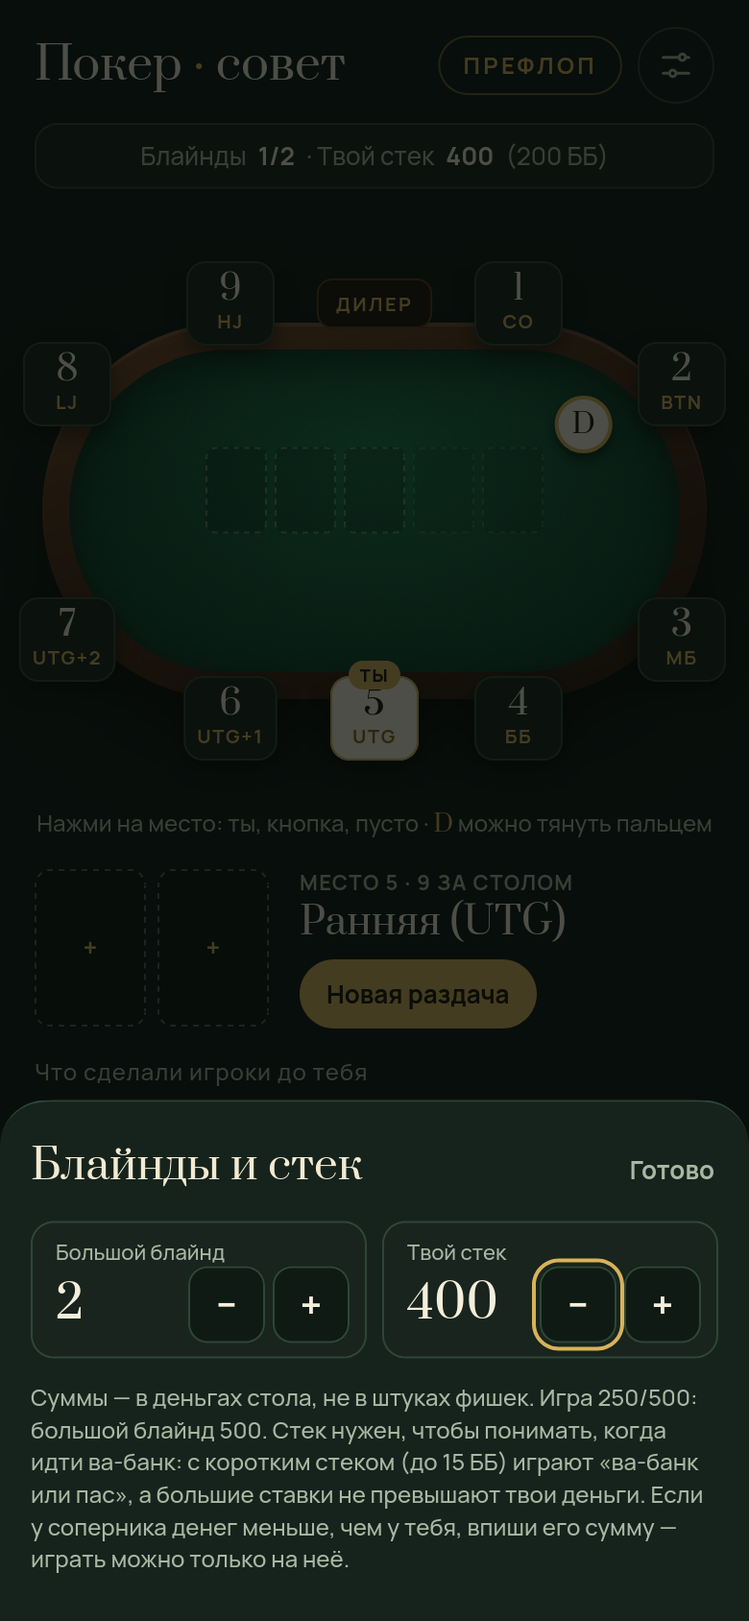
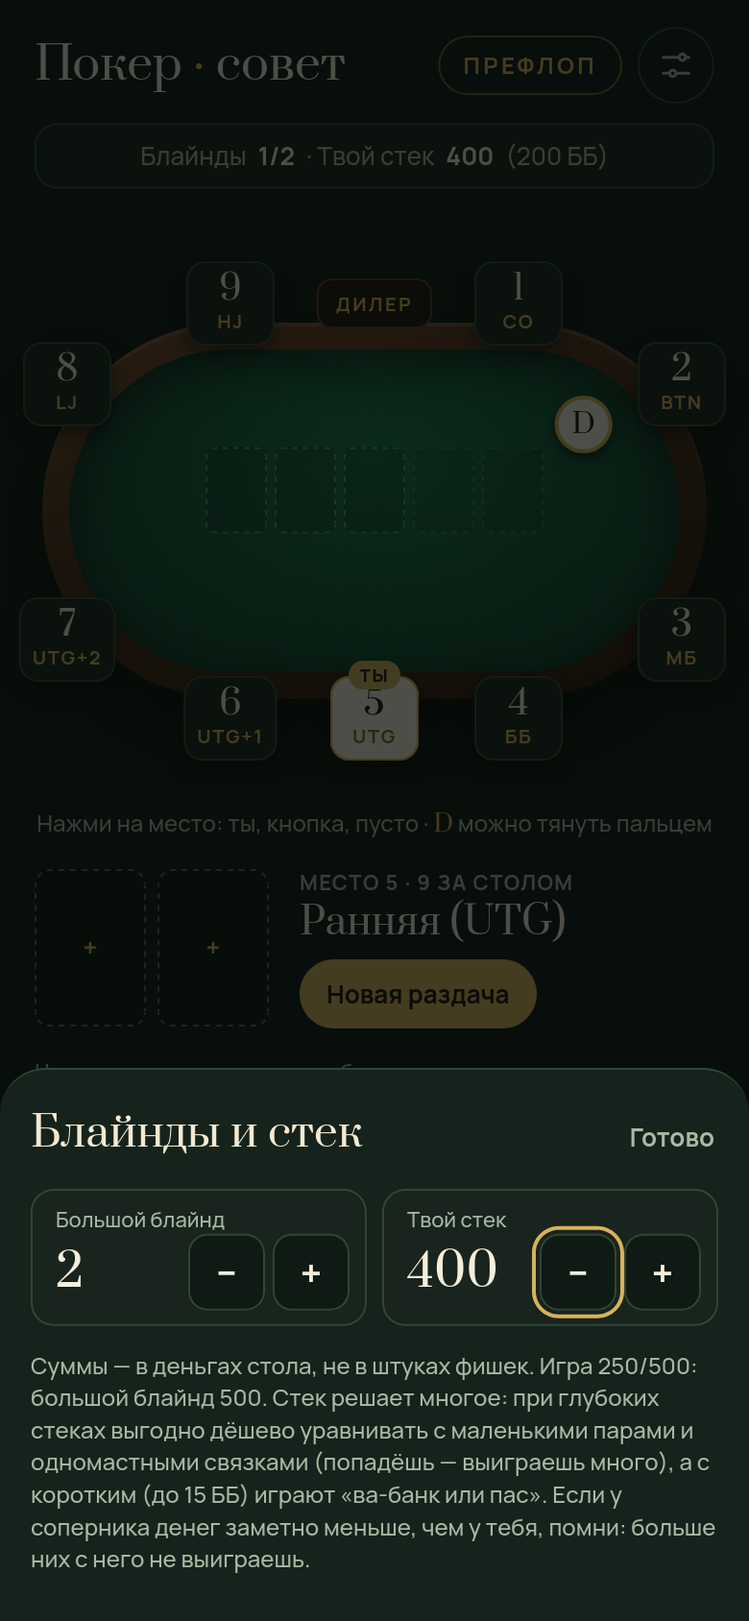
Стек решает: ловля сета, руки на попадание, защита блайндов, SPR и неявные шансы; 70 раздач в проверке

Changed region(s): [[0.0308, 0.6777, 0.9538, 0.9858], [0.8308, 0.6777, 0.9538, 0.7393]]

diff --git a/src/preflop.js b/src/preflop.js
@@ -27,6 +27,13 @@ const CALL_SMALL = '22-JJ, ATs-AQs, KJs+, QJs, JTs, T9s, 98s, AQo, KQo';
 const CALL_BB_EXTRA = 'A2s+, K9s+, Q9s+, J9s+, T8s+, 97s+, 87s, 76s, 65s, ATo+, KJo+, QJo';
 const CALL_BIG = '77-JJ, AQs, KQs, AQo';
 
+// Спекулятивные руки: дешёвый колл ради большого банка, когда попадёшь (нужны глубокие стеки).
+const SPECULATIVE = 'A2s-A9s, KTs, QTs, J9s, T9s, 98s, 87s, 76s, 65s, 54s, T8s, 97s, 86s, 75s';
+// Сколько эффективных стеков (в разах от цены колла) нужно, чтобы ловить сет / доезжать.
+const SET_MINING_IN_POSITION = 18; // 15–20 по книгам, в позиции
+const SET_MINING_OUT_OF_POSITION = 25; // без позиции — нужно больше
+const SPECULATIVE_IMPLIED = 30;
+
 // Против повторного повышения (3-бета).
 const FOURBET = 'KK+, AKs';
 const CALL_3BET = 'QQ, JJ, AKo, AQs';
@@ -44,7 +51,8 @@ const chips = (amount) => Math.round(amount * 10) / 10;
  * action — что было до тебя: 'none' (все сбросили или ты первый), 'limp',
  *   'raise' (одно повышение), '3bet' (повышение на повышение);
  * limpers — сколько игроков уравняли блайнд; raiseTo — до скольки повысили;
- * bigBlind — размер большого блайнда (все суммы в тех же деньгах).
+ * bigBlind — размер большого блайнда (все суммы в тех же деньгах);
+ * stack — эффективный стек: меньший из твоего и соперника (больше него не выиграешь и не проиграешь).
  * Возвращает { action, amount, text, reason, hand }.
  */
 export function preflopAdvice({ hero, position, action = 'none', limpers = 0, raiseTo = 0, bigBlind = 1, stack = Infinity }) {
@@ -97,6 +105,12 @@ export function preflopAdvice({ hero, position, action = 'none', limpers = 0, ra
     return result('fold', 0, `${cls} слишком слабая для этой позиции: после тебя ещё ${position.behind} игроков.`);
   }
 
+  // Сколько реально доплатить (блайнд уже на столе) и во сколько раз стек больше этой цены.
+  const posted = isBB ? bb : position.key === 'SB' ? bb / 2 : 0;
+  const implied = (cost) => (cost > 0 ? stack / cost : Infinity);
+  const isPair = cls.length === 2;
+  const inPosition = position.group !== 'blinds';
+
   if (action === 'limp') {
     const raiseSize = (3 + limpers) * bb;
     // Повышаем, если рука входит в диапазон с запасом (на позицию строже).
@@ -104,13 +118,18 @@ export function preflopAdvice({ hero, position, action = 'none', limpers = 0, ra
       return result('raise', raiseSize, `${cls} — сильная рука, повышай и забирай инициативу у лимперов.`);
     }
     if (isBB) return result('check', 0, 'Можно посмотреть флоп бесплатно.');
-    if (inRange(cls, LIMP_CALL) && inRange(cls, openRange(position.behind))) {
-      return result('call', bb, `${cls} хорошо играет в многосторонних банках: можно доехать до сета или дро.`);
+    // Малый блайнд доплачивает всего полблайнда при уже большом банке — входим шире.
+    if (position.key === 'SB' && topClasses(0.55).has(cls)) {
+      return result('call', bb, `Доплатить всего полблайнда, а в банке уже ${limpers + 2} блайнда — с ${cls} выгодно посмотреть флоп.`);
+    }
+    if (inRange(cls, LIMP_CALL) && inRange(cls, openRange(position.behind)) && implied(bb) >= 20) {
+      return result('call', bb, `${cls} хорошо играет в многосторонних банках: дёшево, а попадёшь в сет или дро — выиграешь много.`);
     }
     return result('fold', 0, `${cls} не стоит денег даже против лимперов.`);
   }
 
   const raiseBB = raiseTo / bb;
+  const cost = raiseTo - posted;
 
   if (action === 'raise') {
     const threeBetRange = late || position.group === 'blinds' ? THREEBET_LATE : THREEBET;
@@ -118,8 +137,27 @@ export function preflopAdvice({ hero, position, action = 'none', limpers = 0, ra
     if (inRange(cls, threeBetRange)) {
       return result('raise', threeBetSize, `${cls} — одна из лучших рук, повышай снова (3-бет).`);
     }
+    // Маленькие и средние пары: ловим сет, если стеки глубокие.
+    if (isPair && inRange(cls, '22-JJ')) {
+      const need = inPosition ? SET_MINING_IN_POSITION : SET_MINING_OUT_OF_POSITION;
+      if (implied(cost) >= need) {
+        return result('call', raiseTo, `Ловим сет: он приходит раз из 8,5, а стек в ${Math.floor(implied(cost))} раз больше цены колла — попадёшь, выиграешь много.`);
+      }
+      if (inRange(cls, '77-JJ') && raiseBB <= 4.5) {
+        return result('call', raiseTo, `${cls} достаточно сильна, чтобы уравнять, но стек маловат, чтобы играть «на сет».`);
+      }
+      return result('fold', 0, `${cls} против повышения играет «на сет», а для этого стек должен быть хотя бы в ${need} раз больше цены колла (сейчас в ${Math.floor(implied(cost))}).`);
+    }
+    // Одномастные связки и тузы: дёшево, в позиции или на ББ, при глубоких стеках.
+    if (inRange(cls, SPECULATIVE) && raiseBB <= 4 && (late || isBB) && implied(cost) >= SPECULATIVE_IMPLIED) {
+      return result('call', raiseTo, `${cls} — рука «на попадание»: колл дешёвый, стеки глубокие, а флеш или стрит выиграют большой банк.`);
+    }
+    // ББ против минимального повышения: цена очень хорошая, защищаем примерно половину рук.
+    if (isBB && raiseBB <= 2.5 && topClasses(0.5).has(cls)) {
+      return result('call', raiseTo, `Повысили минимально: доплатить ${chips(cost)}, а банк уже больше — с ${cls} защищай большой блайнд.`);
+    }
     const callRange = raiseBB > 4.5 ? CALL_BIG : CALL_SMALL;
-    if (inRange(cls, callRange) || (isBB && raiseBB <= 3.5 && inRange(cls, CALL_BB_EXTRA))) {
+    if ((inRange(cls, callRange) && !isPair) || (isBB && raiseBB <= 3.5 && inRange(cls, CALL_BB_EXTRA))) {
       return result('call', raiseTo, isBB
         ? `${cls}: часть ставки уже в банке, цена колла хорошая.`
         : `${cls} неплохо играет против повышения, но для 3-бета слабовата.`);
@@ -133,6 +171,9 @@ export function preflopAdvice({ hero, position, action = 'none', limpers = 0, ra
     }
     if (inRange(cls, CALL_3BET)) {
       return result('call', raiseTo, `${cls} достаточно сильна, чтобы уравнять 3-бет, но не для 4-бета.`);
+    }
+    if (isPair && inRange(cls, '77-TT') && implied(cost) >= 20) {
+      return result('call', raiseTo, `Против 3-бета ${cls} — только «на сет»: стек в ${Math.floor(implied(cost))} раз больше цены, это допустимо.`);
     }
     return result('fold', 0, `Против повторного повышения ${cls} лучше сбросить.`);
   }

diff --git a/src/postflop.js b/src/postflop.js
@@ -120,6 +120,18 @@ export function postflopAdvice({
   const percent = percentText(equity);
   const river = board.length === 5;
 
+  // Сила руки относительно стола: пара, которая есть у всех на столе, — не наша заслуга.
+  const mine = categoryOf(evaluate([...hero, ...board]));
+  const boardOnly = categoryOf(evaluate(board));
+  const madeHand = mine >= CATEGORY.PAIR && !handName.includes('на столе');
+  const topPairPlus = madeHand && (/Старшая пара|Оверпара/.test(handName) || mine - boardOnly >= 1 && mine >= CATEGORY.TWO_PAIR);
+  const bigHand = mine - boardOnly >= 2 || mine >= CATEGORY.STRAIGHT && !handName.includes('на столе');
+
+  // SPR — сколько банков помещается в стеке. Маленький — можно ва-банк со старшей парой,
+  // большой — одной парой весь стек не отдают.
+  const spr = stack / (pot + bet);
+  const sprText = Number.isFinite(spr) ? String(Math.round(spr * 10) / 10).replace('.', ',') : '';
+
   // Нужный шанс для ставки на «вэлью»: против многих соперников ниже.
   const valueNeed = Math.max(0.35, 0.7 - 0.1 * opponents);
   const strongDraw = draws.outs >= 8 && !river;
@@ -132,12 +144,15 @@ export function postflopAdvice({
       action: act,
       amount: amount ? chips(amount) : 0,
       text: ACTION_TEXT[act] + (amount ? `${act === 'raise' ? ' до' : ''} ${chips(amount)}` : ''),
-      reason, equity, randomEquity, handName, draws,
+      reason, equity, randomEquity, handName, draws, spr,
     };
   };
 
   if (!bet) {
     if (equity >= valueNeed) {
+      if (spr < 1.5 && topPairPlus) {
+        return result('allin', stack, `Шанс ${percent} %, а в стеке меньше полутора банков (SPR ${sprText}) — ставь всё сразу.`);
+      }
       return result('bet', pot * 0.66, `Шанс ${percent} % — ты, скорее всего, впереди: ставь 2/3 банка, пусть платят худшие руки.`);
     }
     if (strongDraw && opponents <= 2) {
@@ -153,13 +168,23 @@ export function postflopAdvice({
   const vsValue = calcEquity({ hero, board, opponents, ranges: value ? [...value, ...ranges.slice(1)] : ranges,
     iterations: Math.round(iterations / 2), random }).equity;
   // На ривере повышение уравняют только руки получше — нужен запас побольше.
-  if (vsValue >= Math.max(valueNeed, river ? 0.7 : 0.55) && price < stack) {
+  // При глубоких стеках (SPR > 6) одной парой банк не раздуваем.
+  const deepOnePair = spr > 6 && !bigHand;
+  if (vsValue >= Math.max(valueNeed, river ? 0.7 : 0.55) && price < stack && !deepOnePair) {
     return result('raise', bet * 3, `Ты впереди даже против рук, которыми так ставят без блефа (${percentText(vsValue)} %), — повышай втрое.`);
   }
-  // На флопе впереди ещё ставки: дро без готовой пары реализует шанс не полностью
-  // (на тёрне снова придётся платить). При ва-банке ставок больше не будет — без поправки.
-  const madeHand = categoryOf(evaluate([...hero, ...board])) >= CATEGORY.PAIR && !describeHand(hero, board).includes('на столе');
-  const realized = board.length === 3 && !madeHand && price < stack ? equity * 0.87 : equity;
+  // Маленький SPR и старшая пара или сильнее: сдаваться поздно — ва-банк.
+  if (spr < 3 && topPairPlus && equity >= potOdds) {
+    return result('allin', stack, `Стек меньше трёх банков (SPR ${sprText}), а у тебя ${handName.toLowerCase()} — с такой рукой при маленьком стеке идут ва-банк.`);
+  }
+
+  // Дро. На флопе впереди ещё ставки — шанс реализуется не полностью (на тёрне снова платить).
+  // Зато при глубоких стеках, когда доедешь, выиграешь ещё (неявные шансы) — если ставка не больше банка.
+  const drawing = !madeHand && !river && price < stack;
+  const futureWin = drawing && spr >= 4 && bet <= pot ? 0.3 * Math.min(stack - price, pot + bet + price) : 0;
+  const realized = drawing && board.length === 3 ? equity * 0.87 : equity;
+  const drawOdds = price / (pot + bet + price + futureWin);
+
   // Решение зависит от того, как блефует соперник? Скажем об этом прямо.
   const flip = (other) => {
     if (!compareStyles || style === other) return null;
@@ -167,10 +192,13 @@ export function postflopAdvice({
       iterations: Math.round(iterations / 2), random, compareStyles: false });
     return alt.action;
   };
-  if (realized >= potOdds) {
+  if (realized >= drawOdds) {
     const rare = flip('rare');
     const note = rare === 'fold' ? ' Но если он почти не блефует — пас.' : '';
-    return result('call', price, `Шанс ${percent} %, а колл требует ${need} % — уравнивать выгодно.${note}`);
+    const implied = futureWin && realized < potOdds
+      ? ` Напрямую колл чуть дороже шанса, но стеки глубокие: доедешь — выиграешь ещё.` : '';
+    const deep = deepOnePair && vsValue >= 0.55 ? ' Стеки глубокие — одной парой банк не раздувай, просто уравнивай.' : '';
+    return result('call', price, `Шанс ${percent} %, а колл требует ${need} % — уравнивать выгодно.${implied}${deep}${note}`);
   }
   if (realized < equity && equity >= potOdds) {
     return result('fold', 0, `Шанс ${percent} %, но это до ривера, а на тёрне снова придётся платить: дро стоит около ${percentText(realized)} %, колл требует ${need} %.`);

diff --git a/app.js b/app.js
@@ -444,9 +444,9 @@ function openSettings() {
       ${stepper('stack', 'Твой стек', state.bb * 10)}
     </div>
     <p class="note">Суммы — в деньгах стола, не в штуках фишек. Игра 250/500: большой блайнд 500.
-      Стек нужен, чтобы понимать, когда идти ва-банк: с коротким стеком (до 15 ББ) играют «ва-банк или пас»,
-      а большие ставки не превышают твои деньги. Если у соперника денег меньше, чем у тебя, впиши его сумму —
-      играть можно только на неё.</p>`);
+      Стек решает многое: при глубоких стеках выгодно дёшево уравнивать с маленькими парами и одномастными
+      связками (попадёшь — выиграешь много), а с коротким (до 15 ББ) играют «ва-банк или пас».
+      Если у соперника денег заметно меньше, чем у тебя, помни: больше них с него не выиграешь.</p>`);
   sheet.querySelector('[data-act="close"]').onclick = closeSheet;
   bindSteppers(sheet);
 }

diff --git a/tests/advice.test.js b/tests/advice.test.js
@@ -37,8 +37,10 @@ test('позиции за столом', () => {
   assert.throws(() => positionInfo(11, 0), /от 2 до 10/);
 });
 
+// По умолчанию стек 100 больших блайндов — обычная игра.
 const pre = (hand, players, offset, extra = {}) =>
-  preflopAdvice({ hero: cards(hand), position: positionInfo(players, offset), ...extra });
+  preflopAdvice({ hero: cards(hand), position: positionInfo(players, offset),
+    stack: 100 * (extra.bigBlind ?? 1), ...extra });
 
 test('префлоп: открытие зависит от позиции', () => {
   assert.equal(pre('As Ah', 9, 3).action, 'raise');

diff --git a/docs/proverka-sovetov.md b/docs/proverka-sovetov.md
@@ -28,33 +28,58 @@
 | 20 | 22, стек 14 ББ, ранняя | все сбросили | **Пас** | 48 % против одного соперника | пас | ✅ |
 | 21 | A2 разных, стек 6 ББ, малый блайнд | все сбросили | **Ва-банк до 12** | 49 % против одного соперника | ва-банк | ✅ |
 | 22 | AQ одной масти, стек 12 ББ, против рейза | рейз до 6 | **Ва-банк до 24** | 60 % против руки повысившего | ва-банк | ✅ |
+| 23 | 55 против рейза на баттоне, 100 ББ (ловим сет) | рейз до 6 | **Колл до 6** | 46 % против руки повысившего | колл | ✅ |
+| 24 | 55 против рейза на баттоне, 40 ББ | рейз до 6 | **Пас** | 46 % против руки повысившего | пас | ✅ |
+| 25 | 55 на ББ против рейза, 100 ББ | рейз до 6 | **Колл до 6** | 47 % против руки повысившего | колл | ✅ |
+| 26 | 33 против рейза в 5 ББ, 100 ББ | рейз до 10 | **Колл до 10** | 44 % против руки повысившего | колл | ✅ |
+| 27 | 33 против рейза в 5 ББ, 60 ББ | рейз до 10 | **Пас** | 45 % против руки повысившего | пас | ✅ |
+| 28 | 76 одной масти на баттоне против рейза, 100 ББ | рейз до 6 | **Колл до 6** | 37 % против руки повысившего | колл | ✅ |
+| 29 | 76 одной масти на баттоне против рейза, 40 ББ | рейз до 6 | **Пас** | 37 % против руки повысившего | пас | ✅ |
+| 30 | 76 одной масти из ранней против рейза, 100 ББ | рейз до 6 | **Пас** | 37 % против руки повысившего | пас | ✅ |
+| 31 | A4 одной масти на ББ против рейза, 150 ББ | рейз до 6 | **Колл до 6** | 45 % против руки повысившего | колл | ✅ |
+| 32 | K7 разных на ББ против минимального рейза | рейз до 4 | **Колл до 4** | 35 % против руки повысившего | колл | ✅ |
+| 33 | 9-2 разных на ББ против минимального рейза | рейз до 4 | **Пас** | 28 % против руки повысившего | пас | ✅ |
+| 34 | J8 разных на МБ, перед тобой 2 лимпа | лимп | **Колл до 2** | 26 % против 2 соперников | колл | ✅ |
+| 35 | 7-2 разных на МБ, перед тобой 2 лимпа | лимп | **Пас** | 19 % против 2 соперников | пас | ✅ |
+| 36 | 88 против 3-бета, 300 ББ (на сет) | 3-бет до 18 | **Колл до 18** | 42 % против руки повысившего | колл | ✅ |
+| 37 | 88 против 3-бета, 100 ББ | 3-бет до 18 | **Пас** | 42 % против руки повысившего | пас | ✅ |
+| 38 | Твой пример: стек 200 ББ, ББ, доплатить ещё блайнд, T7 одной масти | рейз до 4 | **Колл до 4** | 35 % против руки повысившего | колл | ✅ |
+| 39 | Твой пример: стек 200 ББ, ББ, доплатить ещё блайнд, 7-2 разных | рейз до 4 | **Пас** | 27 % против руки повысившего | пас | ✅ |
 
 ## После флопа (банк — в центре, ставка — отдельно)
 
 | # | Раздача | Карты · стол | Банк / ставка | Совет | Шанс (против любых) | Ждём | |
 |---|---|---|---|---|---|---|---|
-| 23 | Старшая пара с лучшим кикером, тебе чек | As Kd · Ah 7c 2d | 13 / — | **Ставка 8.6** | 88 % (89 %) | ставка | ✅ |
-| 24 | Старшая пара, ставка в полбанка | As Kd · Ah 7c 2d | 13 / 6 | **Рейз до 18** | 83 % (89 %) | колл или рейз | ✅ |
-| 25 | Ничего не попало, тебе чек | 7s 6s · Ah Kc 2d | 13 / — | **Чек** | 6 % (21 %) | чек | ✅ |
-| 26 | Ничего не попало, ставка | 7s 6s · Ah Kc 2d | 13 / 9 | **Пас** | 10 % (22 %) | пас | ✅ |
-| 27 | Сет семёрок, ставка | 7s 7d · Kh 7c 2h | 13 / 9 | **Рейз до 27** | 91 % (95 %) | рейз | ✅ |
-| 28 | Флеш-дро, ставка в банк | Js Ts · As 7s 2d | 13 / 13 | **Колл 13** (если он почти не блефует — пас) | 41 % (62 %) | колл | ✅ |
-| 29 | Флеш-дро, ставка в три банка | Js Ts · As 7s 2d | 13 / 39 | **Пас** | 40 % (63 %) | пас | ✅ |
-| 30 | Двустороннее стрит-дро, ставка в полбанка | 9s 8d · 7c 6h Kd | 13 / 6 | **Колл 6** | 38 % (50 %) | колл | ✅ |
-| 31 | Гатшот, ставка в банк | 9s 8d · 6c 5h Kd | 13 / 13 | **Пас** | 20 % (39 %) | пас | ✅ |
-| 32 | Туз со слабым кикером, ставка в банк | Ad 3c · As Jh 8d | 13 / 13 | **Колл 13** | 54 % (84 %) | колл или пас | ✅ |
-| 33 | Оверпара QQ, тебе чек | Qs Qd · 8h 5c 2d | 13 / — | **Ставка 8.6** | 79 % (80 %) | ставка | ✅ |
-| 34 | QQ на столе A-K, ставка | Qs Qd · Ah Kc 4d | 13 / 9 | **Колл 9** | 39 % (72 %) | пас или колл | ✅ |
-| 35 | Ривер: натсовый флеш, ставка | Ah 5h · Kh 9h 2c 7h Js | 40 / 20 | **Рейз до 60** | 100 % (100 %) | рейз или ва-банк | ✅ |
-| 36 | Ривер: младшая пара, огромная ставка | 3s 3d · Kh 9c 7d 5s 2h | 40 / 80 | **Пас** | 15 % (47 %) | пас | ✅ |
-| 37 | Ривер: старшая пара, маленькая ставка | Kd Qc · Kh 9c 7d 5s 2h | 40 / 10 | **Колл 10** | 75 % (88 %) | колл или рейз | ✅ |
-| 38 | Ривер: AA на K-K-8-4-2, ставка в 4 банка (твоя) | Ac Ah · 4d Kc Kd 8s 2c | 250 / 1000 | **Пас** | 12 % (81 %) | пас | ✅ |
-| 39 | Ривер: AA на K-K-8-4-2, ставка в банк | Ac Ah · 4d Kc Kd 8s 2c | 1000 / 1000 | **Колл 1000** | 55 % (91 %) | колл | ✅ |
-| 40 | Ривер: AA на K-K-8-4-2, ставка в полбанка | Ac Ah · 4d Kc Kd 8s 2c | 1000 / 500 | **Колл 500** | 68 % (90 %) | колл | ✅ |
-| 41 | Ривер: QQ на A-8-8-4-2, один (твоя) — зависит от блефа | Qh Qd · 4d Ad 8c 8s 2c | 750 / 500 | **Пас** (если он часто блефует — колл) | 20 % (77 %) | пас или колл | ✅ |
-| 42 | Тёрн: две пары, ставка, трое в игре | Ks 9s · Kh 9c 4d 2s | 30 / 20 | **Рейз до 60** | 85 % (89 %) | рейз или колл | ✅ |
-| 43 | Старшая пара, хороший кикер, трое, чек | As Qd · Qh 8c 3d | 12 / — | **Ставка 7.9** | 62 % (66 %) | ставка | ✅ |
-| 44 | Короткий стек: старшая пара, ставка | As Kd · Kh 8c 3d | 40 / 20 | **Ва-банк 30** | 83 % (90 %) | ва-банк | ✅ |
-| 45 | Готовый стрит, тебе чек | Jd Ts · 9h 8c 7d | 13 / — | **Ставка 8.6** | 93 % (95 %) | ставка | ✅ |
+| 40 | Старшая пара с лучшим кикером, тебе чек | As Kd · Ah 7c 2d | 13 / — | **Ставка 8.6** | 89 % (89 %) | ставка | ✅ |
+| 41 | Старшая пара, ставка в полбанка | As Kd · Ah 7c 2d | 13 / 6 | **Колл 6** | 83 % (89 %) | колл или рейз | ✅ |
+| 42 | Ничего не попало, тебе чек | 7s 6s · Ah Kc 2d | 13 / — | **Чек** | 6 % (21 %) | чек | ✅ |
+| 43 | Ничего не попало, ставка | 7s 6s · Ah Kc 2d | 13 / 9 | **Пас** | 10 % (21 %) | пас | ✅ |
+| 44 | Сет семёрок, ставка | 7s 7d · Kh 7c 2h | 13 / 9 | **Рейз до 27** | 90 % (95 %) | рейз | ✅ |
+| 45 | Флеш-дро, ставка в банк | Js Ts · As 7s 2d | 13 / 13 | **Колл 13** | 42 % (61 %) | колл | ✅ |
+| 46 | Флеш-дро, ставка в три банка | Js Ts · As 7s 2d | 13 / 39 | **Пас** | 39 % (62 %) | пас | ✅ |
+| 47 | Двустороннее стрит-дро, ставка в полбанка | 9s 8d · 7c 6h Kd | 13 / 6 | **Колл 6** | 37 % (51 %) | колл | ✅ |
+| 48 | Гатшот, ставка в банк | 9s 8d · 6c 5h Kd | 13 / 13 | **Пас** | 21 % (39 %) | пас | ✅ |
+| 49 | Туз со слабым кикером, ставка в банк | Ad 3c · As Jh 8d | 13 / 13 | **Колл 13** | 54 % (84 %) | колл или пас | ✅ |
+| 50 | Оверпара QQ, тебе чек | Qs Qd · 8h 5c 2d | 13 / — | **Ставка 8.6** | 78 % (81 %) | ставка | ✅ |
+| 51 | QQ на столе A-K, ставка | Qs Qd · Ah Kc 4d | 13 / 9 | **Колл 9** | 39 % (72 %) | пас или колл | ✅ |
+| 52 | Ривер: натсовый флеш, ставка | Ah 5h · Kh 9h 2c 7h Js | 40 / 20 | **Рейз до 60** | 100 % (100 %) | рейз или ва-банк | ✅ |
+| 53 | Ривер: младшая пара, огромная ставка | 3s 3d · Kh 9c 7d 5s 2h | 40 / 80 | **Пас** | 15 % (48 %) | пас | ✅ |
+| 54 | Ривер: старшая пара, маленькая ставка | Kd Qc · Kh 9c 7d 5s 2h | 40 / 10 | **Колл 10** | 74 % (88 %) | колл или рейз | ✅ |
+| 55 | Ривер: AA на K-K-8-4-2, ставка в 4 банка (твоя) | Ac Ah · 4d Kc Kd 8s 2c | 250 / 1000 | **Пас** | 12 % (80 %) | пас | ✅ |
+| 56 | Ривер: AA на K-K-8-4-2, ставка в банк | Ac Ah · 4d Kc Kd 8s 2c | 1000 / 1000 | **Колл 1000** | 55 % (90 %) | колл | ✅ |
+| 57 | Ривер: AA на K-K-8-4-2, ставка в полбанка | Ac Ah · 4d Kc Kd 8s 2c | 1000 / 500 | **Колл 500** | 68 % (90 %) | колл | ✅ |
+| 58 | Ривер: QQ на A-8-8-4-2, один (твоя) — зависит от блефа | Qh Qd · 4d Ad 8c 8s 2c | 750 / 500 | **Пас** (если он часто блефует — колл) | 20 % (77 %) | пас или колл | ✅ |
+| 59 | Тёрн: две пары, ставка, трое в игре | Ks 9s · Kh 9c 4d 2s | 30 / 20 | **Рейз до 60** | 85 % (88 %) | рейз или колл | ✅ |
+| 60 | Старшая пара, хороший кикер, трое, чек | As Qd · Qh 8c 3d | 12 / — | **Ставка 7.9** | 61 % (65 %) | ставка | ✅ |
+| 61 | Короткий стек: старшая пара, ставка | As Kd · Kh 8c 3d | 40 / 20 | **Ва-банк 30** | 83 % (89 %) | ва-банк | ✅ |
+| 62 | Готовый стрит, тебе чек | Jd Ts · 9h 8c 7d | 13 / — | **Ставка 8.6** | 93 % (95 %) | ставка | ✅ |
+| 63 | Оверпара, стек полтора банка, ставка | Qs Qd · 8h 5c 2d | 60 / 30 | **Ва-банк 90** | 76 % (81 %) | ва-банк | ✅ |
+| 64 | Старшая пара, стек 10 банков, ставка в банк | As Kd · Kh 8c 3d | 20 / 20 | **Колл 20** | 79 % (89 %) | колл | ✅ |
+| 65 | Сет, глубокие стеки, ставка | 8s 8d · Kh 8c 3d | 20 / 15 | **Рейз до 45** | 93 % (98 %) | рейз | ✅ |
+| 66 | Две пары, глубокие стеки, ставка | Ks 9s · Kh 9c 4d 2s | 40 / 25 | **Рейз до 75** | 92 % (96 %) | рейз | ✅ |
+| 67 | Флеш-дро на тёрне, полбанка, глубокие стеки | Js Ts · As 7s 2d 4c | 40 / 20 | **Колл 20** | 26 % (44 %) | колл | ✅ |
+| 68 | Флеш-дро на тёрне, ставка в банк, стек маленький | Js Ts · As 7s 2d 4c | 40 / 40 | **Пас** | 26 % (44 %) | пас | ✅ |
+| 69 | Флеш-дро на тёрне, ставка в банк, глубокие стеки | Js Ts · As 7s 2d 4c | 40 / 40 | **Пас** (если он часто блефует — колл) | 25 % (42 %) | колл или пас | ✅ |
+| 70 | Старшая пара, тебе чек, стек меньше банка | Kd 4d · Kh 9c 3s | 60 / — | **Ва-банк 50** | 70 % (82 %) | ва-банк | ✅ |
 
-Не совпало с ожиданием: 0 из 45
+Не совпало с ожиданием: 0 из 70

diff --git a/CLAUDE.md b/CLAUDE.md
@@ -88,7 +88,14 @@
 - Префлоп-шанс — против тех, кто реально играет (одного/лимперов/повысившего), не против всего стола.
 - Стек: до 15 ББ — «ва-банк или пас» (рейтинг один на один HAND_RANKS_HU, пары всегда в ва-банк до 10 ББ);
   ставка ≥ половины стека → ва-банк.
-- Прогон 45 типичных раздач с ожидаемыми решениями: `node scripts/review.mjs` (входит в `npm test`),
+- Прогон 70 типичных раздач с ожидаемыми решениями: `node scripts/review.mjs` (входит в `npm test`),
   результат для владельца — docs/proverka-sovetov.md. Новая жалоба владельца → добавить раздачу сюда.
 - Экран: банк вводится нажатием на «Банк» на столе (банк = деньги в центре, без ставки улицы),
   «Соперник поставил» — отдельно; строка «Блайнды · Твой стек» вверху; без зума от двойного касания.
+
+- Глубина стека (2026-10-05, по книгам: ловля сета 15–20× цены колла в позиции, 25× без; SPR):
+  префлоп — пары 22–JJ уравнивают рейз, если стек ≥ 18× (в позиции) / 25× (блайнды) цены колла;
+  одномастные связки и тузы — в позиции или на ББ, рейз ≤ 4 ББ, стек ≥ 30× цены; ББ против мин-рейза
+  защищает ~50 % рук; МБ доплачивает полблайнда в лимп-банке с ~55 % рук. После флопа: SPR < 3 со
+  старшей парой+ — ва-банк; SPR > 6 одной парой не повышаем; дро при SPR ≥ 4 и ставке ≤ банка
+  учитывает будущий выигрыш (неявные шансы). Стек соперника владелец вводить НЕ хочет — считаем по своему.
